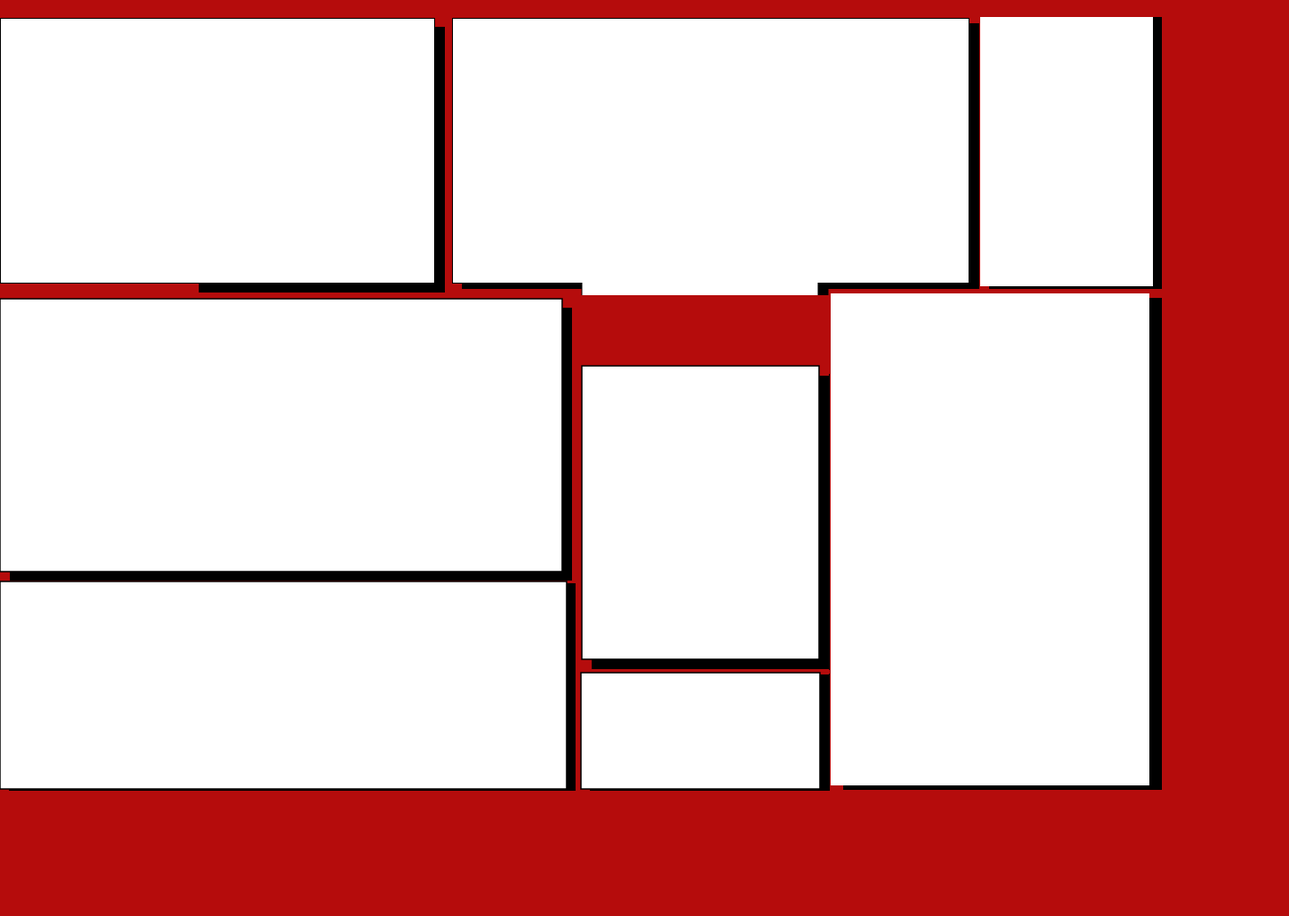
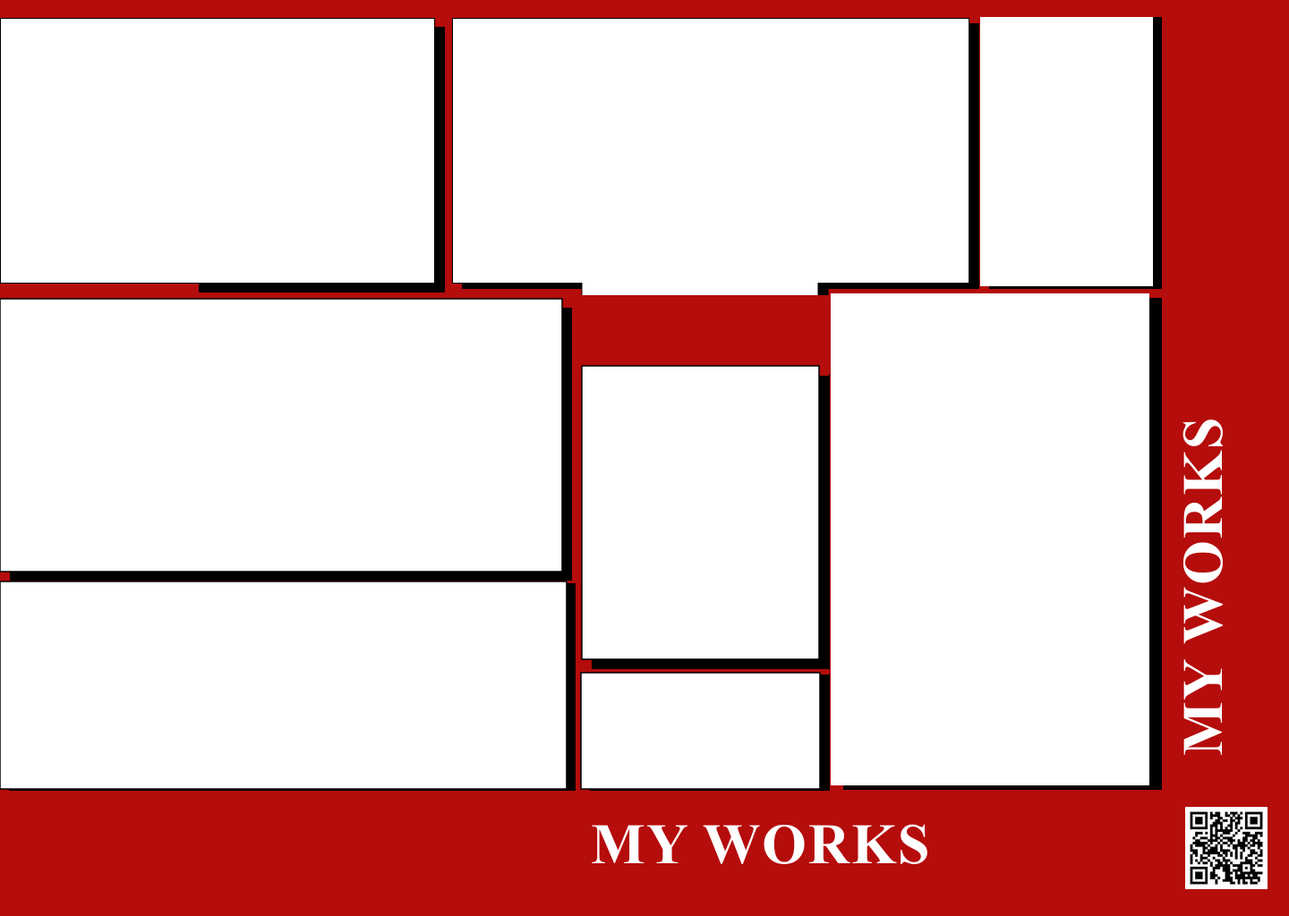
feat: add editorial "My Works" typography and custom QR code elements to hero section

Changed region(s): [[0.9062, 0.4688, 0.9688, 0.8125], [0.4688, 0.875, 0.7188, 0.9688], [0.9062, 0.875, 1.0, 0.9688]]

diff --git a/dist/assets/index-BSJE_-_u.css b/dist/assets/index-BSJE_-_u.css
@@ -1,0 +1,1 @@
+:root{--design-w:1440;--k:.88;--s:calc(var(--k) * 100vw / var(--design-w));--color-red:#b50c0c;--color-red-dark:#8c0909;--color-red-light:#d61a1a;--color-nav-bg:#fff;--color-nav-text:#111;--color-bg-dark:#0a0a0a;--color-bg-surface:#141414;--color-bg-card:#1c1c1c;--color-text-main:#f5f5f5;--color-text-muted:#999;--color-border:#ffffff1a;--color-border-hover:#ffffff40;--font-nav:"Inter", -apple-system, BlinkMacSystemFont, "Segoe UI", Roboto, sans-serif;--font-display:"Syne", "Inter", sans-serif;--font-mono:"Space Mono", monospace;--nav-height:calc(46 * var(--s));--cols:47;--rows:5}*,:before,:after{box-sizing:border-box;margin:0;padding:0}html{font-size:calc(16 * var(--s));scroll-behavior:smooth;background-color:var(--color-bg-dark);color:var(--color-text-main);font-family:var(--font-nav);font-feature-settings:"cv02", "cv03", "cv04", "cv11";overflow-x:hidden}body{-webkit-font-smoothing:antialiased;-moz-osx-font-smoothing:grayscale;min-height:100%;line-height:1.5}.nav{height:var(--nav-height);background-color:var(--color-nav-bg);color:var(--color-nav-text);z-index:100;padding:0 calc(48 * var(--s));will-change:transform, opacity;box-shadow:0 calc(2 * var(--s)) calc(15 * var(--s)) #00000026;justify-content:space-between;align-items:center;transition:background-color .3s;display:flex;position:fixed;top:0;left:0;right:0}.nav-left{align-items:center;gap:calc(16 * var(--s));display:flex}.nav-logo{font-size:max(calc(24 * var(--s)), 12px);letter-spacing:-.02em;color:var(--color-nav-text);font-weight:500;font-family:var(--font-nav);text-decoration:none}.nav-right{align-items:center;gap:calc(42 * var(--s));display:flex}.nav-links{align-items:center;gap:calc(36 * var(--s));list-style:none;display:flex}.nav-link{font-size:max(calc(17 * var(--s)), 12px);color:var(--color-nav-text);padding:calc(4 * var(--s)) 0;font-weight:400;text-decoration:none;transition:opacity .2s,transform .2s;position:relative}.nav-link:hover{opacity:.7}.nav-link.active{font-weight:600}.nav-actions{align-items:center;gap:calc(12 * var(--s));display:flex}.btn-replay{padding:calc(6 * var(--s)) calc(14 * var(--s));font-size:max(calc(13 * var(--s)), 12px);color:var(--color-nav-text);cursor:pointer;align-items:center;gap:calc(6 * var(--s));background:#00000014;border:1px solid #00000026;border-radius:9999px;font-weight:500;transition:all .2s;display:flex}.btn-replay:hover{background:#0000002e;transform:scale(1.03)}.btn-replay:active{transform:scale(.97)}.btn-replay svg{width:calc(14 * var(--s));height:calc(14 * var(--s));transition:transform .4s}.btn-replay:hover svg{transform:rotate(180deg)}.nav-mobile-toggle{cursor:pointer;color:var(--color-nav-text);background:0 0;border:none;padding:8px;display:none}.hero{width:100%;height:100vh;min-height:500px;max-height:calc(1024 * var(--s));background-color:var(--color-red);position:relative;overflow:hidden}.hero.is-loading{visibility:hidden}.hero-bg{background-color:var(--color-red);z-index:0;will-change:clip-path;position:absolute;inset:0}.hero-portrait-stage{inset:0;top:var(--nav-height);z-index:1;pointer-events:none;justify-content:center;align-items:flex-end;display:flex;position:absolute;overflow:hidden}.hero-portrait-wrapper{height:87.1%;max-height:calc(844 * var(--s));margin-bottom:calc(20 * var(--s));will-change:transform;pointer-events:auto;justify-content:center;align-items:flex-end;display:flex;position:relative}.hero-portrait{object-fit:contain;object-position:bottom center;width:auto;max-width:95vw;height:100%;filter:drop-shadow(0 calc(20 * var(--s)) calc(40 * var(--s)) #00000059);-webkit-user-select:none;user-select:none;-webkit-user-drag:none;transition:filter .3s}.hero-title-container{bottom:calc(20 * var(--s));z-index:2;pointer-events:none;justify-content:center;align-items:flex-end;width:100%;padding:0;display:flex;position:absolute;left:0;right:0}.hero-title{width:min(calc(1316 * var(--s)), 91.2vw);aspect-ratio:48/5;max-width:164.16vh;margin:0 auto;display:block;position:relative}.px-layer{align-items:stretch;gap:0;width:97.9167%;height:100%;display:flex;position:absolute;top:0;left:0}.px-layer--shadow{z-index:1;left:2.08333%}.px-layer--white{z-index:2;left:0}.px-letter{aspect-ratio:3/5;flex:3;grid-template-rows:repeat(5,1fr);grid-template-columns:repeat(3,1fr);gap:0;display:grid}.px-spacer{aspect-ratio:1/5;flex:1}.px{aspect-ratio:1;transform-origin:50%;width:100%;height:100%;display:block}.px-layer--white .px{background-color:#fff}.px-layer--shadow .px{background-color:#000}.px.px--empty{visibility:hidden;background:0 0!important}.hero-scroll-indicator{display:none}.hero-scroll-indicator:hover{color:#fff}.scroll-arrow{animation:1.8s ease-in-out infinite bounceDown}@keyframes bounceDown{0%,to{transform:translateY(0)}50%{transform:translateY(calc(6 * var(--s)))}}.section{padding:calc(120 * var(--s)) calc(80 * var(--s));position:relative}.container{max-width:calc(1320 * var(--s));margin:0 auto}.section-tag{align-items:center;gap:calc(8 * var(--s));font-family:var(--font-mono);font-size:max(calc(13 * var(--s)), 12px);text-transform:uppercase;letter-spacing:.12em;color:var(--color-red-light);margin-bottom:calc(16 * var(--s));display:inline-flex}.section-tag:before{content:"";width:calc(8 * var(--s));height:calc(8 * var(--s));background-color:var(--color-red-light);border-radius:50%;display:inline-block}.section-heading{font-family:var(--font-display);font-size:max(calc(64 * var(--s)), 12px);letter-spacing:-.02em;margin-bottom:calc(24 * var(--s));font-weight:700;line-height:1.1}.section-desc{font-size:max(calc(20 * var(--s)), 12px);color:var(--color-text-muted);max-width:calc(680 * var(--s));line-height:1.6}.band-wrap{width:100%;height:calc(92 * var(--s));background-color:var(--color-red);z-index:10;margin-top:calc(68 * var(--s));align-items:center;display:flex;position:relative;overflow:visible}.band-wrap:before{content:"";height:calc(70 * var(--s));background-color:var(--color-red);pointer-events:none;position:absolute;bottom:100%;left:0;right:0}.scale-viewport{width:100%;height:100%;position:relative;overflow:hidden}.scale-track{will-change:transform;-webkit-user-select:none;user-select:none;align-items:center;width:max-content;height:100%;display:flex}.cap{width:calc(3 * var(--s));height:calc(44 * var(--s));z-index:2;pointer-events:none;background-color:#fff;border-radius:1px;position:absolute;top:50%;transform:translateY(-50%)}.cap--left{left:0}.cap--right{right:0}.scale-tick-unit{flex:0 0 calc(24 * var(--s));width:calc(24 * var(--s));justify-content:center;align-items:center;height:100%;display:flex;position:relative}.scale-bar{width:calc(2 * var(--s));background-color:#1a1a1a;border-radius:1px}.scale-tick-unit.is-minor .scale-bar{height:calc(15 * var(--s))}.scale-tick-unit.is-major.is-top .scale-bar{height:calc(22 * var(--s));transform:translateY(calc(-3 * var(--s)))}.scale-tick-unit.is-major.is-bottom .scale-bar{height:calc(22 * var(--s));transform:translateY(calc(3 * var(--s)))}.scale-num{font-family:var(--font-mono,monospace);font-size:max(calc(12 * var(--s)), 9px);color:#1a1a1a;pointer-events:none;-webkit-user-select:none;user-select:none;font-variant-numeric:tabular-nums;letter-spacing:-.02em;font-weight:700;line-height:1;position:absolute}.scale-num--top{top:calc(11 * var(--s));left:50%;transform:translate(-50%)}.scale-num--bottom{bottom:calc(11 * var(--s));left:50%;transform:translate(-50%)}.wheel{width:calc(290 * var(--s));aspect-ratio:728/327;z-index:3;-webkit-user-select:none;user-select:none;touch-action:pan-y;position:absolute;top:0;left:50%;transform:translate(-50%)}.wheel:focus-visible{outline:calc(2 * var(--s)) dashed #fff9;outline-offset:calc(4 * var(--s))}.wheel-body{object-fit:contain;pointer-events:none;-webkit-user-select:none;user-select:none;-webkit-user-drag:none;width:100%;height:100%;display:block}.wheel-ring{cursor:grab;touch-action:none;border-radius:calc(3 * var(--s));width:98%;height:24.5%;position:absolute;top:7.6%;left:1%;overflow:hidden}.wheel-ring:active{cursor:grabbing}.wheel-ridges{pointer-events:none;will-change:background-position;background:url(/assets/wheel/ridges.png) 0 0/auto 100% repeat-x;width:100%;height:100%}.wheel-ring:after{content:"";pointer-events:none;background:linear-gradient(90deg,#000000d9 0%,#00000040 12%,#0000 28%,#ffffff14 50%,#0000 72%,#00000040 88%,#000000d9 100%),linear-gradient(#ffffff1f 0%,#0000 20% 75%,#0009 100%);position:absolute;inset:0}.shelf{--red:#b50c0c;--card:#fff;--card-shadow:#1f1f1f;--btn:#d9d9d9;--btn-shadow:#000;--off:calc(22.5 * var(--s));--boff:calc(10 * var(--s));background:var(--red);padding:calc(125 * var(--s)) 0 calc(80 * var(--s));min-height:calc(1024 * var(--s));position:relative;overflow:hidden}.shelf-row{justify-content:center;gap:var(--off);width:100%;margin:0 auto;display:flex}.xcard{aspect-ratio:345/473;flex:0 0 21.6vw;position:relative}.xcard-shadow{background:var(--card-shadow);transform:translate(var(--off), var(--off));position:absolute;inset:0}.xcard-face{background:var(--card);width:100%;height:100%;display:block;position:relative;overflow:hidden}.xcard-face img{object-fit:cover;width:100%;height:100%;display:block}.cta{width:calc(534 * var(--s));height:calc(98 * var(--s));color:#111;margin:10vw auto 0;text-decoration:none;display:block;position:relative}.cta-shadow{background:var(--btn-shadow);transform:translate(var(--boff), var(--boff));position:absolute;inset:0}.cta-face{background:var(--btn);justify-content:center;align-items:center;width:100%;height:100%;display:flex;position:relative}.shelf:not(.is-in) .xcard,.shelf:not(.is-in) .cta{visibility:hidden}.shelf:not(.is-in) .xcard-face{transform:translate(var(--off), var(--off))}.shelf:not(.is-in) .cta-face{transform:translate(var(--boff), var(--boff))}.shelf.is-in .xcard-face,.shelf.is-in .cta-face{transition:transform .35s cubic-bezier(.2,.7,.2,1)}@media (hover:hover){.shelf.is-in .xcard:hover .xcard-face,.shelf.is-in .xcard:focus-within .xcard-face{transform:translate(calc(-8 * var(--s)), calc(-8 * var(--s)))}.shelf.is-in .cta:hover .cta-face{transform:translate(calc(3 * var(--s)), calc(3 * var(--s)))}}.shelf.is-in .cta:active .cta-face{transform:translate(var(--boff), var(--boff))}.xcard-face:focus-visible,.cta:focus-visible{outline:calc(2 * var(--s)) solid #fff;outline-offset:calc(4 * var(--s))}@media (prefers-reduced-motion:reduce){.shelf *{transition:none!important}}@media (width<=900px){.shelf{--off:12px;--boff:6px;min-height:0;padding-top:22vw}.shelf-row{grid-template-columns:repeat(2,1fr);gap:28px;margin-left:0;padding-inline:20px;display:grid}.xcard{flex:none;width:auto}.cta{width:calc(100% - 40px);height:72px;margin-top:56px}}.about{--paper:#fff;--red:var(--color-red,#b50c0c);--ink:#111;--strip:#1f1f1f;--strip-text:#707070;--tilt:4deg;background:var(--paper);padding:calc(193 * var(--s)) 0 calc(100 * var(--s));min-height:calc(1024 * var(--s));position:relative;overflow:hidden}.about-copy{z-index:1;margin-left:calc(132 * var(--s));width:calc(484 * var(--s));position:relative}.about-label{width:100%;height:calc(87 * var(--s));padding-inline:calc(24 * var(--s));background:var(--red);color:#fff;font-family:var(--font-nav);font-weight:700;font-size:max(calc(38 * var(--s)), 12px);letter-spacing:.01em;text-transform:uppercase;align-items:center;margin:0;display:flex;overflow:hidden}.about-label-text{line-height:1;display:inline-block}.about-text{margin:calc(77 * var(--s)) 0 0;color:var(--ink);font-family:var(--font-nav);font-size:max(calc(34 * var(--s)), 12px);text-align:left;line-height:1.3}.about-card{left:calc(883 * var(--s));top:calc(252 * var(--s));width:calc(650 * var(--s));height:calc(628 * var(--s));transform:rotate(var(--tilt));transform-origin:0%;display:flex;position:absolute;overflow:hidden}.about-strip{flex:0 0 calc(61 * var(--s));background:var(--strip);justify-content:center;align-items:center;display:flex;position:relative}.about-strip-text{writing-mode:vertical-rl;color:var(--strip-text);font-family:var(--font-nav);font-size:max(calc(20 * var(--s)), 10px);letter-spacing:.06em;white-space:nowrap;gap:calc(24 * var(--s));-webkit-user-select:none;user-select:none;display:flex;transform:rotate(180deg)}.about-photo{background:var(--red);flex:1;position:relative;overflow:hidden}.about-photo img{filter:grayscale()contrast(1.05);-webkit-user-select:none;user-select:none;-webkit-user-drag:none;width:auto;height:78%;display:block;position:absolute;bottom:0;left:50%;transform:translate(-50%)}@media (width<=900px){.about{min-height:0;padding:12vw 0 16vw}.about-copy{width:auto;margin-inline:6vw}.about-label{height:14vw;padding-inline:4vw;font-size:clamp(16px,5vw,24px)}.about-text{margin-top:6vw;font-size:clamp(16px,4.4vw,22px)}.about-card{width:100vw;height:88vw;margin-top:14vw;position:relative;top:0;left:14vw}.about-strip{flex-basis:12vw}}.cc{--red:var(--color-red,#b50c0c);--paper:var(--red);--card-bg:#d9d9d9;--card-border:#00000073;--ink:#fff;background:var(--red);min-height:calc(1024 * var(--s));width:100%;position:relative;overflow:hidden}.camera{left:calc(120 * var(--s));top:calc(355 * var(--s));width:calc(520 * var(--s));z-index:1;max-width:none;position:absolute}.camera-rise{transform-origin:50% 100%}.camera-stack{transform-origin:50%;position:relative}.camera-img{-webkit-user-select:none;user-select:none;-webkit-user-drag:none;width:100%;height:auto;filter:drop-shadow(0 calc(24 * var(--s)) calc(48 * var(--s)) #00000073);display:block}.camera-wheel{left:var(--px,0%);top:var(--py,0%);width:var(--pw,0%);aspect-ratio:1;pointer-events:none;z-index:3;position:absolute}.camera-wheel svg{transform-origin:50%;width:100%;height:100%;filter:drop-shadow(0 calc(4 * var(--s)) calc(10 * var(--s)) #00000047);display:block}.camera-part{left:var(--px,0%);top:var(--py,0%);width:var(--pw,0%);aspect-ratio:1;position:absolute}.camera-part-img{transform-origin:50%;width:100%;height:100%;display:block}.cluster{left:calc(680 * var(--s));top:calc(170 * var(--s));width:calc(720 * var(--s));height:calc(680 * var(--s));z-index:2;position:absolute}.pcard{left:var(--l);top:var(--t);width:var(--w);height:var(--h);z-index:var(--z);transform:rotate(var(--r,0deg));transform-origin:50%;text-decoration:none;display:block;position:absolute}.pcard-face{background:var(--card-bg,#d9d9d9);border:1px solid var(--card-border,#00000059);box-sizing:border-box;width:100%;height:100%;box-shadow:0 calc(6 * var(--s)) calc(20 * var(--s)) #00000047;transition:transform .35s cubic-bezier(.2,.7,.2,1),box-shadow .35s,border-color .35s;display:block;overflow:hidden}.pcard-face img{object-fit:cover;-webkit-user-select:none;user-select:none;-webkit-user-drag:none;width:100%;height:100%;display:block}.af{z-index:5;left:calc(315 * var(--s));top:calc(382 * var(--s));width:calc(212 * var(--s));height:calc(202 * var(--s));pointer-events:none;visibility:hidden;position:absolute}.af i{width:calc(24 * var(--s));height:calc(24 * var(--s));border:calc(3 * var(--s)) solid var(--ink);position:absolute}.af i:first-child{border-bottom:0;border-right:0;top:0;left:0}.af i:nth-child(2){border-bottom:0;border-left:0;top:0;right:0}.af i:nth-child(3){border-top:0;border-right:0;bottom:0;left:0}.af i:nth-child(4){border-top:0;border-left:0;bottom:0;right:0}.cc.is-in .af{display:none}.js .cc:not(.is-ready) .pcard,.js .cc:not(.is-ready) .camera{visibility:hidden}.cc.is-ready .pcard,.cc.is-in .pcard{visibility:visible;opacity:1}@media (hover:hover){.cc.is-in .pcard:hover{z-index:99!important}.cc.is-in .pcard:hover .pcard-face{transform:translate(calc(-10 * var(--s)), calc(-10 * var(--s)));box-shadow:calc(10 * var(--s)) calc(10 * var(--s)) calc(20 * var(--s)) #00000026;border-color:#00000080}}.cc.is-in .pcard:focus-visible{outline:calc(2 * var(--s)) solid var(--ink);outline-offset:calc(4 * var(--s));z-index:99!important}.cc.is-in .pcard:focus-visible .pcard-face{transform:translate(calc(-10 * var(--s)), calc(-10 * var(--s)))}@media (prefers-reduced-motion:reduce){.cc *{transition:none!important}}@media (width<=900px){.cc{min-height:0;padding-bottom:12vw}.camera{width:86vw;max-width:none;margin:8vw auto 0;position:relative;top:auto;left:auto}.cluster{width:90vw;margin:6vw auto 0;position:relative;top:auto;left:auto}.af{width:32vw;height:32vw;top:11vw;left:27vw}}.ag-hero{--ag-red:var(--color-red,#b50c0c);width:100%;min-height:calc(1024 * var(--s));background-color:var(--ag-red);position:relative;overflow:hidden}.ag-bg{background-color:var(--ag-red);z-index:1;position:absolute;inset:0}.ag-stage{width:100%;height:calc(1024 * var(--s));z-index:2;margin:0;position:relative}.ag-panel{will-change:clip-path, transform, opacity;position:absolute;overflow:visible}.ag-panel-shadow{transform:translate(var(--shadow-x,calc(12 * var(--s))), var(--shadow-y,calc(10 * var(--s))));background-color:#000;position:absolute;inset:0}.ag-panel-face{border:max(1px, calc(1.5 * var(--s))) solid #000;box-sizing:border-box;background-color:#fff;position:absolute;inset:0}.ag-panel--upper-left{left:0;top:calc(20 * var(--s));width:calc(484 * var(--s));height:calc(295 * var(--s));--shadow-x:calc(12 * var(--s));--shadow-y:calc(11 * var(--s));z-index:2}.ag-panel--upper-middle{left:calc(506 * var(--s));top:calc(20 * var(--s));width:calc(588 * var(--s));height:calc(380 * var(--s));z-index:2}.ag-stepped-svg{width:100%;height:100%;display:block;overflow:visible}.ag-panel--upper-right{left:calc(1095 * var(--s));top:calc(19 * var(--s));width:calc(192 * var(--s));height:calc(300 * var(--s));--shadow-x:calc(10 * var(--s));--shadow-y:calc(3 * var(--s));z-index:2}.ag-panel--left-middle{left:0;top:calc(334 * var(--s));width:calc(628 * var(--s));height:calc(305 * var(--s));--shadow-x:calc(11 * var(--s));--shadow-y:calc(10 * var(--s));z-index:2}.ag-panel--central-1{left:calc(650 * var(--s));top:calc(409 * var(--s));width:calc(265 * var(--s));height:calc(328 * var(--s));--shadow-x:calc(11 * var(--s));--shadow-y:calc(11 * var(--s));z-index:2}.ag-panel--right-side{left:calc(928 * var(--s));top:calc(328 * var(--s));width:calc(355 * var(--s));height:calc(549 * var(--s));--shadow-x:calc(14 * var(--s));--shadow-y:calc(5 * var(--s));z-index:2}.ag-panel--lower-left{left:0;top:calc(650 * var(--s));width:calc(633 * var(--s));height:calc(232 * var(--s));--shadow-x:calc(10 * var(--s));--shadow-y:calc(2 * var(--s));z-index:2}.ag-panel--central-2{left:calc(649 * var(--s));top:calc(752 * var(--s));width:calc(267 * var(--s));height:calc(130 * var(--s));--shadow-x:calc(10 * var(--s));--shadow-y:calc(2 * var(--s));z-index:2}.ag-text-horizontal{left:calc(650 * var(--s));top:calc(900 * var(--s));height:calc(100 * var(--s));z-index:5;pointer-events:none;-webkit-user-select:none;user-select:none;will-change:transform, opacity;align-items:center;display:flex;position:absolute}.ag-works-label{font-family:Inter,-apple-system,BlinkMacSystemFont,sans-serif;font-size:calc(64 * var(--s));color:#fff;letter-spacing:calc(1.5 * var(--s));text-transform:uppercase;white-space:nowrap;font-weight:700;line-height:1}.ag-text-vertical{right:calc(16 * var(--s));bottom:calc(135 * var(--s));width:calc(120 * var(--s));z-index:5;pointer-events:none;-webkit-user-select:none;user-select:none;transform-origin:100% 100%;will-change:transform, opacity;justify-content:center;align-items:flex-end;display:flex;position:absolute;transform:rotate(-90deg)}.ag-works-vertical-label{font-family:Inter,-apple-system,BlinkMacSystemFont,sans-serif;font-size:calc(64 * var(--s));color:#fff;letter-spacing:calc(1.5 * var(--s));text-transform:uppercase;white-space:nowrap;font-weight:700;line-height:1}.ag-qr-container{right:calc(26 * var(--s));bottom:calc(22 * var(--s));width:calc(90 * var(--s));height:calc(90 * var(--s));padding:calc(2 * var(--s));box-sizing:border-box;z-index:5;pointer-events:auto;will-change:transform, opacity;background-color:#fff;position:absolute}.ag-qr-img{object-fit:cover;-webkit-user-select:none;user-select:none;-webkit-user-drag:none;width:100%;height:100%;display:block}.js .ag-hero:not(.is-ready) [data-hero-panel],.js .ag-hero:not(.is-ready) [data-hero-text],.js .ag-hero:not(.is-ready) [data-hero-qr]{visibility:hidden}.ag-hero.is-ready [data-hero-panel],.ag-hero.is-ready [data-hero-text],.ag-hero.is-ready [data-hero-qr],.ag-hero.is-done [data-hero-panel],.ag-hero.is-done [data-hero-text],.ag-hero.is-done [data-hero-qr]{visibility:visible}@media (width<=900px){.ag-hero{min-height:calc(1024 * var(--s))}}@media (prefers-reduced-motion:reduce){.ag-hero [data-hero-panel],.ag-hero [data-hero-text],.ag-hero [data-hero-qr]{clip-path:none!important;opacity:1!important;visibility:visible!important;transition:none!important;transform:none!important}}.foot{--red:#b50c0c;--paper:#fff;--ink:#000;background:var(--paper);min-height:max(100svh,71.1vw);position:relative;overflow:hidden}.foot-red{background:var(--red);transform-origin:50% 100%;height:21.1vw;position:absolute;bottom:0;left:0;right:0}.foot-title{width:90.6vw;margin:0;position:absolute;bottom:18.3vw;left:3.5vw}.foot-title svg{width:100%;height:auto;display:block;overflow:visible}.foot-code{cursor:pointer;flex-direction:column;align-items:center;width:50.9vw;display:flex;position:absolute;bottom:2.4vw;left:50%;transform:translate(-50%)}.barcode{width:100%;height:auto;display:block;overflow:visible}.scan{visibility:hidden}.foot-cap{color:var(--ink);font-family:Space Mono,ui-monospace,monospace;font-weight:300;font-size:max(calc(40 * var(--s)), 12px);letter-spacing:.85em;white-space:nowrap;margin:.7vw 0 0;padding-left:.85em;line-height:1}.js .foot[data-entrance=pending] .foot-red,.js .foot[data-entrance=pending] .foot-title,.js .foot[data-entrance=pending] .foot-code{visibility:hidden}.foot[data-entrance=done] .foot-red,.foot[data-entrance=done] .foot-title,.foot[data-entrance=done] .foot-code{visibility:visible!important}@media (width<=500px){.foot-cap{letter-spacing:.6em;padding-left:.6em}}.lightbox{-webkit-backdrop-filter:blur(calc(8 * var(--s)));backdrop-filter:blur(calc(8 * var(--s)));z-index:1000;opacity:0;pointer-events:none;padding:calc(24 * var(--s));background:#000000eb;justify-content:center;align-items:center;transition:opacity .3s;display:flex;position:fixed;inset:0}.lightbox.active{opacity:1;pointer-events:auto}.lightbox-content{flex-direction:column;align-items:center;max-width:90vw;max-height:85vh;display:flex;position:relative}.lightbox-img{object-fit:contain;border-radius:calc(8 * var(--s));max-width:100%;max-height:75vh;box-shadow:0 calc(10 * var(--s)) calc(40 * var(--s)) #000c}.lightbox-caption{margin-top:calc(16 * var(--s));font-size:max(calc(16 * var(--s)), 12px);color:#fff;text-align:center}.lightbox-close{top:calc(24 * var(--s));right:calc(24 * var(--s));color:#fff;width:calc(44 * var(--s));height:calc(44 * var(--s));cursor:pointer;font-size:calc(24 * var(--s));background:#ffffff1a;border:none;border-radius:50%;justify-content:center;align-items:center;transition:background .2s;display:flex;position:absolute}.lightbox-close:hover{background:#ffffff40}@media (width<=900px){html{font-size:16px}}@media (width<=992px){.contact-grid{grid-template-columns:1fr}}@media (width<=768px){.nav-links{top:var(--nav-height);background:var(--color-nav-bg);flex-direction:column;gap:20px;padding:24px;transition:transform .3s;position:fixed;left:0;right:0;transform:translateY(-150%);box-shadow:0 10px 20px #0003}.nav-links.mobile-open{transform:translateY(0)}.nav-mobile-toggle{display:block}.hero-portrait-wrapper{height:90.8%}}

diff --git a/dist/assets/index-Bnef5Spv.js b/dist/assets/index-Bnef5Spv.js
@@ -9,4 +9,4 @@
         <div class="scale-tick-unit is-minor">
           <div class="scale-bar"></div>
         </div>
-      `});{let n=Ad()*Od,i=Math.ceil(t/n)+2;e.innerHTML=r.repeat(i)}}function Md(){let e=document.querySelector(`.scale-viewport`),t=document.querySelector(`.scale-track`),n=document.querySelector(`.wheel-ring`),r=document.querySelector(`.wheel-ridges`),i=document.querySelector(`.wheel`);if(!e||!t||!n||!r)return()=>{};jd(t,e.offsetWidth||window.innerWidth);let a=()=>{let e=t.querySelector(`.scale-tick-unit`);return e&&e.offsetWidth||24*yd()},o=()=>a()*Od,s=()=>148*yd(),c=e=>{let t=a();return(t-e/2%t)%t};function l(n){let a=s(),l=o(),u=e.offsetWidth||window.innerWidth,d=c(u),f=J.utils.wrap(-l,0),p=J.utils.wrap(0,a);if(r.style.backgroundPositionX=p(n*kd)+`px`,J.set(t,{x:f(n)-d}),i){let e=Math.round((n%1e3+1e3)%1e3/10);i.setAttribute(`aria-valuenow`,String(e))}}let u=document.createElement(`div`);u.style.cssText=`position: absolute; opacity: 0; pointer-events: none; z-index: -1;`,document.body.appendChild(u);let d={trigger:[n,i],type:`x`,inertia:!0,snap:e=>{let t=a();return Math.round(e/t)*t},onDrag:function(){l(this.x)},onThrowUpdate:function(){l(this.x)}},f=Rl.create(u,d)[0];l(0);function p(e){if(e.key!==`ArrowLeft`&&e.key!==`ArrowRight`)return;e.preventDefault();let t=e.key===`ArrowRight`?1:-1;J.to(u,{x:`+=`+t*a(),duration:.3,ease:`power2.out`,onUpdate(){f.update(),l(f.x)}})}n.addEventListener(`keydown`,p),i&&i.addEventListener(`keydown`,p);function m(){let n=e.offsetWidth||window.innerWidth;jd(t,n),l(f.x)}return window.addEventListener(`resize`,m),()=>{f.kill(),u.remove(),n.removeEventListener(`keydown`,p),i&&i.removeEventListener(`keydown`,p),window.removeEventListener(`resize`,m)}}function Nd(){let e=document.querySelector(`.about`);if(!e)return()=>{};let t=e.querySelector(`.about-text`);if(!t)return()=>{};let n=dd.create(t,{type:`lines`,mask:`lines`}),r=J.timeline({defaults:{ease:`power3.out`},scrollTrigger:{trigger:e,start:`top 65%`,once:!0}});r.from(`.about-label`,{scaleX:0,transformOrigin:`0% 50%`,duration:.6,ease:`power4.inOut`},0).from(`.about-label-text`,{yPercent:110,duration:.5},.3).from(n.lines,{yPercent:110,duration:.8,stagger:.06},.45).from(`.about-card`,{x:`30vw`,rotation:14,duration:1.1,ease:`back.out(1.4)`},.2).from(`.about-strip-text`,{clipPath:`inset(0% 0% 100% 0%)`,duration:.8,ease:`power2.inOut`},1);let i=null,a=()=>{clearTimeout(i),i=setTimeout(()=>{n.revert(),n.split()},250)};return window.addEventListener(`resize`,a),()=>{window.removeEventListener(`resize`,a),n.revert(),r.kill()}}function Pd(e){e.querySelectorAll(`.camera-wheel`).forEach(e=>{e.innerHTML=``;let t=e.dataset;e.appendChild(_d({teeth:+t.teeth||48,ticks:+t.ticks||60,palette:t.palette||`chrome`,numerals:t.numerals?t.numerals.split(`,`):[]}))})}var Fd=null,Id=null;function Ld(){let e=document.querySelector(`[data-hero-section]`);if(!e)return()=>{};let t={upperLeft:e.querySelector(`[data-hero-panel="upper-left"]`),upperMiddle:e.querySelector(`[data-hero-panel="upper-middle"]`),upperRight:e.querySelector(`[data-hero-panel="upper-right"]`),leftMiddle:e.querySelector(`[data-hero-panel="left-middle"]`),central1:e.querySelector(`[data-hero-panel="central-1"]`),central2:e.querySelector(`[data-hero-panel="central-2"]`),rightSide:e.querySelector(`[data-hero-panel="right-side"]`),lowerLeft:e.querySelector(`[data-hero-panel="lower-left"]`)},n=Object.values(t).filter(Boolean);if(window.matchMedia(`(prefers-reduced-motion: reduce)`).matches)return e.classList.add(`is-ready`,`is-done`),()=>{};J.set(n,{clipPath:`inset(0% 100% 0% 0%)`,autoAlpha:1}),e.classList.add(`is-ready`);function r(){Fd&&Fd.kill();let r=J.timeline({paused:!0,defaults:{ease:`power3.out`},onComplete(){e.classList.add(`is-done`),J.set(n,{clearProps:`clipPath`})}});return Fd=r,t.upperLeft&&r.to(t.upperLeft,{clipPath:`inset(0% 0% 0% 0%)`,duration:.55,ease:`power3.out`},0),t.upperMiddle&&r.to(t.upperMiddle,{clipPath:`inset(0% 0% 0% 0%)`,duration:.58,ease:`power3.out`},.07),t.upperRight&&r.to(t.upperRight,{clipPath:`inset(0% 0% 0% 0%)`,duration:.55,ease:`power3.out`},.14),t.leftMiddle&&r.to(t.leftMiddle,{clipPath:`inset(0% 0% 0% 0%)`,duration:.65,ease:`power3.out`},.2),t.central1&&r.to(t.central1,{clipPath:`inset(0% 0% 0% 0%)`,duration:.55,ease:`power3.out`},.27),t.central2&&r.to(t.central2,{clipPath:`inset(0% 0% 0% 0%)`,duration:.5,ease:`power3.out`},.34),t.rightSide&&r.to(t.rightSide,{clipPath:`inset(0% 0% 0% 0%)`,duration:.65,ease:`power3.out`},.32),t.lowerLeft&&r.to(t.lowerLeft,{clipPath:`inset(0% 0% 0% 0%)`,duration:.6,ease:`power3.out`},.38),r}let i=r(),a=!1;function o(){a||(a=!0,s.disconnect(),i.play())}let s=new IntersectionObserver(e=>{e.some(e=>e.isIntersecting)&&o()},{threshold:.2});return s.observe(e),Id=()=>{a=!0,e.classList.remove(`is-done`),J.set(n,{clipPath:`inset(0% 100% 0% 0%)`,autoAlpha:1}),r().play()},()=>{s.disconnect(),Fd&&Fd.kill()}}var Rd={x:30,y:-10};function zd(){let e=document.querySelector(`.foot`);if(!e||e.dataset.entrance===`done`)return()=>{};let t=e.querySelector(`.foot-red`),n=J.utils.toArray(`.glyph`,e),r=J.utils.toArray(`.front`,e),i=J.utils.toArray(`.bar`,e),a=e.querySelector(`.scan`),o=e.querySelector(`.foot-code`),s=e.querySelector(`.barcode`),c=s?s.viewBox.baseVal:{width:734},l=e.querySelector(`.foot-cap`),u=l?dd.create(l,{type:`chars`}):{chars:[],revert:()=>{}},d=[],f=!1;J.set(t,{scaleY:0}),J.set(n,{scaleY:0,transformOrigin:`50% 100%`}),J.set(r,{x:-Rd.x,y:-Rd.y}),J.set(i,{scaleY:0,transformOrigin:`50% 100%`}),u.chars&&u.chars.length&&J.set(u.chars,{autoAlpha:0}),e.dataset.entrance=`ready`;function p(){f||(f=!0,J.fromTo(a,{x:0,autoAlpha:1},{x:c.width,duration:.9,ease:`power2.inOut`,onComplete(){J.set(a,{autoAlpha:0}),f=!1}}))}function m(){e.dataset.entrance!==`done`&&(h.kill(),J.set([t,n,r,i,a],{clearProps:`all`}),u.revert(),e.dataset.entrance=`done`,v())}let h=J.timeline({paused:!0,defaults:{ease:`power3.out`},onComplete:m});h.to(t,{scaleY:1,duration:.8,ease:`power4.inOut`},0).to(n,{scaleY:1,duration:.6,ease:`steps(8)`,stagger:.07},.5).to(r,{x:0,y:0,duration:.6,ease:`back.out(2.2)`,stagger:.07},1.3).to(i,{scaleY:1,duration:.25,ease:`power2.out`,stagger:{amount:.7}},2),u.chars&&u.chars.length&&h.to(u.chars,{autoAlpha:1,duration:.01,stagger:.05},2.5),h.add(p,3);function g(){e.dataset.entrance===`ready`&&(e.dataset.entrance=`playing`,_.disconnect(),h.play(),d.push(setTimeout(m,7e3)))}let _=new IntersectionObserver(e=>{e.some(e=>e.isIntersecting)&&g()},{threshold:.35});_.observe(e);function v(){if(o&&(o.addEventListener(`pointerenter`,p),o.addEventListener(`click`,()=>{window.scrollTo({top:0,behavior:`smooth`})})),!window.matchMedia(`(hover: hover)`).matches)return;let t=r.map(e=>({x:J.quickTo(e,`x`,{duration:.8,ease:`power3`}),y:J.quickTo(e,`y`,{duration:.8,ease:`power3`})}));e.addEventListener(`pointermove`,e=>{let n=e.clientX/window.innerWidth-.5,r=e.clientY/window.innerHeight-.5;t.forEach(e=>{e.x(n*10*yd()),e.y(r*6*yd())})})}return()=>{_.disconnect(),d.forEach(clearTimeout),h.kill()}}function Bd(){let e=document.querySelector(`.nav-mobile-toggle`),t=document.querySelector(`.nav-links`);e&&t&&(e.addEventListener(`click`,()=>{t.classList.toggle(`mobile-open`)}),t.querySelectorAll(`.nav-link`).forEach(e=>{e.addEventListener(`click`,()=>{t.classList.remove(`mobile-open`)})}))}document.readyState===`loading`?document.addEventListener(`DOMContentLoaded`,Ed):Ed();
+      `});{let n=Ad()*Od,i=Math.ceil(t/n)+2;e.innerHTML=r.repeat(i)}}function Md(){let e=document.querySelector(`.scale-viewport`),t=document.querySelector(`.scale-track`),n=document.querySelector(`.wheel-ring`),r=document.querySelector(`.wheel-ridges`),i=document.querySelector(`.wheel`);if(!e||!t||!n||!r)return()=>{};jd(t,e.offsetWidth||window.innerWidth);let a=()=>{let e=t.querySelector(`.scale-tick-unit`);return e&&e.offsetWidth||24*yd()},o=()=>a()*Od,s=()=>148*yd(),c=e=>{let t=a();return(t-e/2%t)%t};function l(n){let a=s(),l=o(),u=e.offsetWidth||window.innerWidth,d=c(u),f=J.utils.wrap(-l,0),p=J.utils.wrap(0,a);if(r.style.backgroundPositionX=p(n*kd)+`px`,J.set(t,{x:f(n)-d}),i){let e=Math.round((n%1e3+1e3)%1e3/10);i.setAttribute(`aria-valuenow`,String(e))}}let u=document.createElement(`div`);u.style.cssText=`position: absolute; opacity: 0; pointer-events: none; z-index: -1;`,document.body.appendChild(u);let d={trigger:[n,i],type:`x`,inertia:!0,snap:e=>{let t=a();return Math.round(e/t)*t},onDrag:function(){l(this.x)},onThrowUpdate:function(){l(this.x)}},f=Rl.create(u,d)[0];l(0);function p(e){if(e.key!==`ArrowLeft`&&e.key!==`ArrowRight`)return;e.preventDefault();let t=e.key===`ArrowRight`?1:-1;J.to(u,{x:`+=`+t*a(),duration:.3,ease:`power2.out`,onUpdate(){f.update(),l(f.x)}})}n.addEventListener(`keydown`,p),i&&i.addEventListener(`keydown`,p);function m(){let n=e.offsetWidth||window.innerWidth;jd(t,n),l(f.x)}return window.addEventListener(`resize`,m),()=>{f.kill(),u.remove(),n.removeEventListener(`keydown`,p),i&&i.removeEventListener(`keydown`,p),window.removeEventListener(`resize`,m)}}function Nd(){let e=document.querySelector(`.about`);if(!e)return()=>{};let t=e.querySelector(`.about-text`);if(!t)return()=>{};let n=dd.create(t,{type:`lines`,mask:`lines`}),r=J.timeline({defaults:{ease:`power3.out`},scrollTrigger:{trigger:e,start:`top 65%`,once:!0}});r.from(`.about-label`,{scaleX:0,transformOrigin:`0% 50%`,duration:.6,ease:`power4.inOut`},0).from(`.about-label-text`,{yPercent:110,duration:.5},.3).from(n.lines,{yPercent:110,duration:.8,stagger:.06},.45).from(`.about-card`,{x:`30vw`,rotation:14,duration:1.1,ease:`back.out(1.4)`},.2).from(`.about-strip-text`,{clipPath:`inset(0% 0% 100% 0%)`,duration:.8,ease:`power2.inOut`},1);let i=null,a=()=>{clearTimeout(i),i=setTimeout(()=>{n.revert(),n.split()},250)};return window.addEventListener(`resize`,a),()=>{window.removeEventListener(`resize`,a),n.revert(),r.kill()}}function Pd(e){e.querySelectorAll(`.camera-wheel`).forEach(e=>{e.innerHTML=``;let t=e.dataset;e.appendChild(_d({teeth:+t.teeth||48,ticks:+t.ticks||60,palette:t.palette||`chrome`,numerals:t.numerals?t.numerals.split(`,`):[]}))})}var Fd=null,Id=null;function Ld(){let e=document.querySelector(`[data-hero-section]`);if(!e)return()=>{};let t={upperLeft:e.querySelector(`[data-hero-panel="upper-left"]`),upperMiddle:e.querySelector(`[data-hero-panel="upper-middle"]`),upperRight:e.querySelector(`[data-hero-panel="upper-right"]`),leftMiddle:e.querySelector(`[data-hero-panel="left-middle"]`),central1:e.querySelector(`[data-hero-panel="central-1"]`),central2:e.querySelector(`[data-hero-panel="central-2"]`),rightSide:e.querySelector(`[data-hero-panel="right-side"]`),lowerLeft:e.querySelector(`[data-hero-panel="lower-left"]`)},n=e.querySelector(`[data-hero-text="horizontal"]`),r=e.querySelector(`[data-hero-text="vertical"]`),i=e.querySelector(`[data-hero-qr]`),a=Object.values(t).filter(Boolean);if(window.matchMedia(`(prefers-reduced-motion: reduce)`).matches)return e.classList.add(`is-ready`,`is-done`),()=>{};J.set(a,{clipPath:`inset(0% 100% 0% 0%)`,autoAlpha:1}),n&&J.set(n,{y:20*yd(),autoAlpha:0}),r&&J.set(r,{x:20*yd(),autoAlpha:0}),i&&J.set(i,{scale:.88,autoAlpha:0}),e.classList.add(`is-ready`);function o(){Fd&&Fd.kill();let o=J.timeline({paused:!0,defaults:{ease:`power3.out`},onComplete(){e.classList.add(`is-done`),J.set(a,{clearProps:`clipPath`}),n&&J.set(n,{clearProps:`transform`}),r&&J.set(r,{clearProps:`transform`}),i&&J.set(i,{clearProps:`transform,scale`})}});return Fd=o,t.upperLeft&&o.to(t.upperLeft,{clipPath:`inset(0% 0% 0% 0%)`,duration:.55,ease:`power3.out`},0),t.upperMiddle&&o.to(t.upperMiddle,{clipPath:`inset(0% 0% 0% 0%)`,duration:.58,ease:`power3.out`},.07),t.upperRight&&o.to(t.upperRight,{clipPath:`inset(0% 0% 0% 0%)`,duration:.55,ease:`power3.out`},.14),t.leftMiddle&&o.to(t.leftMiddle,{clipPath:`inset(0% 0% 0% 0%)`,duration:.65,ease:`power3.out`},.2),t.central1&&o.to(t.central1,{clipPath:`inset(0% 0% 0% 0%)`,duration:.55,ease:`power3.out`},.27),t.central2&&o.to(t.central2,{clipPath:`inset(0% 0% 0% 0%)`,duration:.5,ease:`power3.out`},.34),t.rightSide&&o.to(t.rightSide,{clipPath:`inset(0% 0% 0% 0%)`,duration:.65,ease:`power3.out`},.32),t.lowerLeft&&o.to(t.lowerLeft,{clipPath:`inset(0% 0% 0% 0%)`,duration:.6,ease:`power3.out`},.38),n&&o.to(n,{y:0,autoAlpha:1,duration:.65,ease:`power3.out`},.44),r&&o.to(r,{x:0,autoAlpha:1,duration:.65,ease:`power3.out`},.44),i&&o.to(i,{scale:1,autoAlpha:1,duration:.6,ease:`power3.out`},.48),o}let s=o(),c=!1;function l(){c||(c=!0,u.disconnect(),s.play())}let u=new IntersectionObserver(e=>{e.some(e=>e.isIntersecting)&&l()},{threshold:.2});return u.observe(e),Id=()=>{c=!0,e.classList.remove(`is-done`),J.set(a,{clipPath:`inset(0% 100% 0% 0%)`,autoAlpha:1}),n&&J.set(n,{y:20*yd(),autoAlpha:0}),r&&J.set(r,{x:20*yd(),autoAlpha:0}),i&&J.set(i,{scale:.88,autoAlpha:0}),o().play()},()=>{u.disconnect(),Fd&&Fd.kill()}}var Rd={x:30,y:-10};function zd(){let e=document.querySelector(`.foot`);if(!e||e.dataset.entrance===`done`)return()=>{};let t=e.querySelector(`.foot-red`),n=J.utils.toArray(`.glyph`,e),r=J.utils.toArray(`.front`,e),i=J.utils.toArray(`.bar`,e),a=e.querySelector(`.scan`),o=e.querySelector(`.foot-code`),s=e.querySelector(`.barcode`),c=s?s.viewBox.baseVal:{width:734},l=e.querySelector(`.foot-cap`),u=l?dd.create(l,{type:`chars`}):{chars:[],revert:()=>{}},d=[],f=!1;J.set(t,{scaleY:0}),J.set(n,{scaleY:0,transformOrigin:`50% 100%`}),J.set(r,{x:-Rd.x,y:-Rd.y}),J.set(i,{scaleY:0,transformOrigin:`50% 100%`}),u.chars&&u.chars.length&&J.set(u.chars,{autoAlpha:0}),e.dataset.entrance=`ready`;function p(){f||(f=!0,J.fromTo(a,{x:0,autoAlpha:1},{x:c.width,duration:.9,ease:`power2.inOut`,onComplete(){J.set(a,{autoAlpha:0}),f=!1}}))}function m(){e.dataset.entrance!==`done`&&(h.kill(),J.set([t,n,r,i,a],{clearProps:`all`}),u.revert(),e.dataset.entrance=`done`,v())}let h=J.timeline({paused:!0,defaults:{ease:`power3.out`},onComplete:m});h.to(t,{scaleY:1,duration:.8,ease:`power4.inOut`},0).to(n,{scaleY:1,duration:.6,ease:`steps(8)`,stagger:.07},.5).to(r,{x:0,y:0,duration:.6,ease:`back.out(2.2)`,stagger:.07},1.3).to(i,{scaleY:1,duration:.25,ease:`power2.out`,stagger:{amount:.7}},2),u.chars&&u.chars.length&&h.to(u.chars,{autoAlpha:1,duration:.01,stagger:.05},2.5),h.add(p,3);function g(){e.dataset.entrance===`ready`&&(e.dataset.entrance=`playing`,_.disconnect(),h.play(),d.push(setTimeout(m,7e3)))}let _=new IntersectionObserver(e=>{e.some(e=>e.isIntersecting)&&g()},{threshold:.35});_.observe(e);function v(){if(o&&(o.addEventListener(`pointerenter`,p),o.addEventListener(`click`,()=>{window.scrollTo({top:0,behavior:`smooth`})})),!window.matchMedia(`(hover: hover)`).matches)return;let t=r.map(e=>({x:J.quickTo(e,`x`,{duration:.8,ease:`power3`}),y:J.quickTo(e,`y`,{duration:.8,ease:`power3`})}));e.addEventListener(`pointermove`,e=>{let n=e.clientX/window.innerWidth-.5,r=e.clientY/window.innerHeight-.5;t.forEach(e=>{e.x(n*10*yd()),e.y(r*6*yd())})})}return()=>{_.disconnect(),d.forEach(clearTimeout),h.kill()}}function Bd(){let e=document.querySelector(`.nav-mobile-toggle`),t=document.querySelector(`.nav-links`);e&&t&&(e.addEventListener(`click`,()=>{t.classList.toggle(`mobile-open`)}),t.querySelectorAll(`.nav-link`).forEach(e=>{e.addEventListener(`click`,()=>{t.classList.remove(`mobile-open`)})}))}document.readyState===`loading`?document.addEventListener(`DOMContentLoaded`,Ed):Ed();

diff --git a/style.css b/style.css
@@ -1213,13 +1213,94 @@ body {
   z-index: 2;
 }
 
-/* Progressive enhancement: hide panels before JS animation runs */
-.js .ag-hero:not(.is-ready) [data-hero-panel] {
+/* Editorial Brand Typography: "MY WORKS" & Custom QR Code */
+.ag-text-horizontal {
+  position: absolute;
+  left: calc(650 * var(--s));
+  top: calc(900 * var(--s));
+  height: calc(100 * var(--s));
+  display: flex;
+  align-items: center;
+  z-index: 5;
+  pointer-events: none;
+  user-select: none;
+  will-change: transform, opacity;
+}
+
+.ag-works-label {
+  font-family: 'Inter', -apple-system, BlinkMacSystemFont, sans-serif;
+  font-size: calc(64 * var(--s));
+  font-weight: 700;
+  color: #ffffff;
+  letter-spacing: calc(1.5 * var(--s));
+  text-transform: uppercase;
+  line-height: 1;
+  white-space: nowrap;
+}
+
+.ag-text-vertical {
+  position: absolute;
+  right: calc(16 * var(--s));
+  bottom: calc(135 * var(--s));
+  width: calc(120 * var(--s));
+  display: flex;
+  justify-content: center;
+  align-items: flex-end;
+  z-index: 5;
+  pointer-events: none;
+  user-select: none;
+  transform: rotate(-90deg);
+  transform-origin: right bottom;
+  will-change: transform, opacity;
+}
+
+.ag-works-vertical-label {
+  font-family: 'Inter', -apple-system, BlinkMacSystemFont, sans-serif;
+  font-size: calc(64 * var(--s));
+  font-weight: 700;
+  color: #ffffff;
+  letter-spacing: calc(1.5 * var(--s));
+  text-transform: uppercase;
+  line-height: 1;
+  white-space: nowrap;
+}
+
+.ag-qr-container {
+  position: absolute;
+  right: calc(26 * var(--s));
+  bottom: calc(22 * var(--s));
+  width: calc(90 * var(--s));
+  height: calc(90 * var(--s));
+  background-color: #ffffff;
+  padding: calc(2 * var(--s));
+  box-sizing: border-box;
+  z-index: 5;
+  pointer-events: auto;
+  will-change: transform, opacity;
+}
+
+.ag-qr-img {
+  display: block;
+  width: 100%;
+  height: 100%;
+  object-fit: cover;
+  user-select: none;
+  -webkit-user-drag: none;
+}
+
+/* Progressive enhancement: hide panels, text, and QR before JS animation runs */
+.js .ag-hero:not(.is-ready) [data-hero-panel],
+.js .ag-hero:not(.is-ready) [data-hero-text],
+.js .ag-hero:not(.is-ready) [data-hero-qr] {
   visibility: hidden;
 }
 
 .ag-hero.is-ready [data-hero-panel],
-.ag-hero.is-done [data-hero-panel] {
+.ag-hero.is-ready [data-hero-text],
+.ag-hero.is-ready [data-hero-qr],
+.ag-hero.is-done [data-hero-panel],
+.ag-hero.is-done [data-hero-text],
+.ag-hero.is-done [data-hero-qr] {
   visibility: visible;
 }
 
@@ -1232,7 +1313,9 @@ body {
 
 /* Reduced motion preference */
 @media (prefers-reduced-motion: reduce) {
-  .ag-hero [data-hero-panel] {
+  .ag-hero [data-hero-panel],
+  .ag-hero [data-hero-text],
+  .ag-hero [data-hero-qr] {
     clip-path: none !important;
     transform: none !important;
     opacity: 1 !important;

diff --git a/src/main.js b/src/main.js
@@ -760,6 +760,9 @@ export function initArchitecturalSection() {
     rightSide: root.querySelector('[data-hero-panel="right-side"]'),
     lowerLeft: root.querySelector('[data-hero-panel="lower-left"]'),
   };
+  const textH = root.querySelector('[data-hero-text="horizontal"]');
+  const textV = root.querySelector('[data-hero-text="vertical"]');
+  const qr = root.querySelector('[data-hero-qr]');
   const allPanelEls = Object.values(panels).filter(Boolean);
 
   if (window.matchMedia('(prefers-reduced-motion: reduce)').matches) {
@@ -772,6 +775,10 @@ export function initArchitecturalSection() {
     clipPath: 'inset(0% 100% 0% 0%)',
     autoAlpha: 1,
   });
+
+  if (textH) gsap.set(textH, { y: 20 * S(), autoAlpha: 0 });
+  if (textV) gsap.set(textV, { x: 20 * S(), autoAlpha: 0 });
+  if (qr) gsap.set(qr, { scale: 0.88, autoAlpha: 0 });
 
   root.classList.add('is-ready');
 
@@ -787,6 +794,9 @@ export function initArchitecturalSection() {
         root.classList.add('is-done');
         // Clear clip-path after entrance so that edges stay pristine
         gsap.set(allPanelEls, { clearProps: 'clipPath' });
+        if (textH) gsap.set(textH, { clearProps: 'transform' });
+        if (textV) gsap.set(textV, { clearProps: 'transform' });
+        if (qr) gsap.set(qr, { clearProps: 'transform,scale' });
       },
     });
 
@@ -831,6 +841,17 @@ export function initArchitecturalSection() {
       tl.to(panels.lowerLeft, { clipPath: 'inset(0% 0% 0% 0%)', duration: 0.60, ease: 'power3.out' }, 0.38);
     }
 
+    // Editorial Typography & QR Code entrance: 0.44s onward
+    if (textH) {
+      tl.to(textH, { y: 0, autoAlpha: 1, duration: 0.65, ease: 'power3.out' }, 0.44);
+    }
+    if (textV) {
+      tl.to(textV, { x: 0, autoAlpha: 1, duration: 0.65, ease: 'power3.out' }, 0.44);
+    }
+    if (qr) {
+      tl.to(qr, { scale: 1, autoAlpha: 1, duration: 0.60, ease: 'power3.out' }, 0.48);
+    }
+
     return tl;
   }
 
@@ -858,6 +879,9 @@ export function initArchitecturalSection() {
     hasEntered = true;
     root.classList.remove('is-done');
     gsap.set(allPanelEls, { clipPath: 'inset(0% 100% 0% 0%)', autoAlpha: 1 });
+    if (textH) gsap.set(textH, { y: 20 * S(), autoAlpha: 0 });
+    if (textV) gsap.set(textV, { x: 20 * S(), autoAlpha: 0 });
+    if (qr) gsap.set(qr, { scale: 0.88, autoAlpha: 0 });
     const replayTl = buildTimeline();
     replayTl.play();
   };

diff --git a/dist/index.html b/dist/index.html
@@ -16,8 +16,8 @@
     rel="stylesheet">
 
   <script>document.documentElement.classList.add("js");</script>
-  <script type="module" crossorigin src="/assets/index-CsusvhWH.js"></script>
-  <link rel="stylesheet" crossorigin href="/assets/index-DfbnBbua.css">
+  <script type="module" crossorigin src="/assets/index-Bnef5Spv.js"></script>
+  <link rel="stylesheet" crossorigin href="/assets/index-BSJE_-_u.css">
 </head>
 
 <body>
@@ -33,7 +33,7 @@
         <li><a href="#about" class="nav-link">About</a></li>
         <li><a href="#shelf" class="nav-link">Projects</a></li>
         <li><a href="#footer" class="nav-link">Contact</a></li>
-        <li><a href="#architectural-hero" class="nav-link">Experience</a></li>
+        <li><a href="#architectural-hero" class="nav-link">Works</a></li>
       </ul>
 
       <div class="nav-actions">
@@ -231,6 +231,19 @@
         <div class="ag-panel ag-panel--central-2" data-hero-panel="central-2" aria-hidden="true">
           <div class="ag-panel-shadow"></div>
           <div class="ag-panel-face"></div>
+        </div>
+
+        <!-- Editorial Typography & Brand Anchor: "MY WORKS" & Custom QR Code -->
+        <div class="ag-text-horizontal" data-hero-text="horizontal" aria-label="My Works">
+          <span class="ag-works-label">MY WORKS</span>
+        </div>
+
+        <div class="ag-text-vertical" data-hero-text="vertical" aria-hidden="true">
+          <span class="ag-works-vertical-label">MY WORKS</span>
+        </div>
+
+        <div class="ag-qr-container" data-hero-qr aria-label="Portfolio QR Code">
+          <img class="ag-qr-img" src="/assets/works/custom-qr.jpg" alt="Portfolio QR Code" loading="lazy" />
         </div>
 
       </div>

diff --git a/index.html b/index.html
@@ -32,7 +32,7 @@
         <li><a href="#about" class="nav-link">About</a></li>
         <li><a href="#shelf" class="nav-link">Projects</a></li>
         <li><a href="#footer" class="nav-link">Contact</a></li>
-        <li><a href="#architectural-hero" class="nav-link">Experience</a></li>
+        <li><a href="#architectural-hero" class="nav-link">Works</a></li>
       </ul>
 
       <div class="nav-actions">
@@ -230,6 +230,19 @@
         <div class="ag-panel ag-panel--central-2" data-hero-panel="central-2" aria-hidden="true">
           <div class="ag-panel-shadow"></div>
           <div class="ag-panel-face"></div>
+        </div>
+
+        <!-- Editorial Typography & Brand Anchor: "MY WORKS" & Custom QR Code -->
+        <div class="ag-text-horizontal" data-hero-text="horizontal" aria-label="My Works">
+          <span class="ag-works-label">MY WORKS</span>
+        </div>
+
+        <div class="ag-text-vertical" data-hero-text="vertical" aria-hidden="true">
+          <span class="ag-works-vertical-label">MY WORKS</span>
+        </div>
+
+        <div class="ag-qr-container" data-hero-qr aria-label="Portfolio QR Code">
+          <img class="ag-qr-img" src="/assets/works/custom-qr.jpg" alt="Portfolio QR Code" loading="lazy" />
         </div>
 
       </div>
